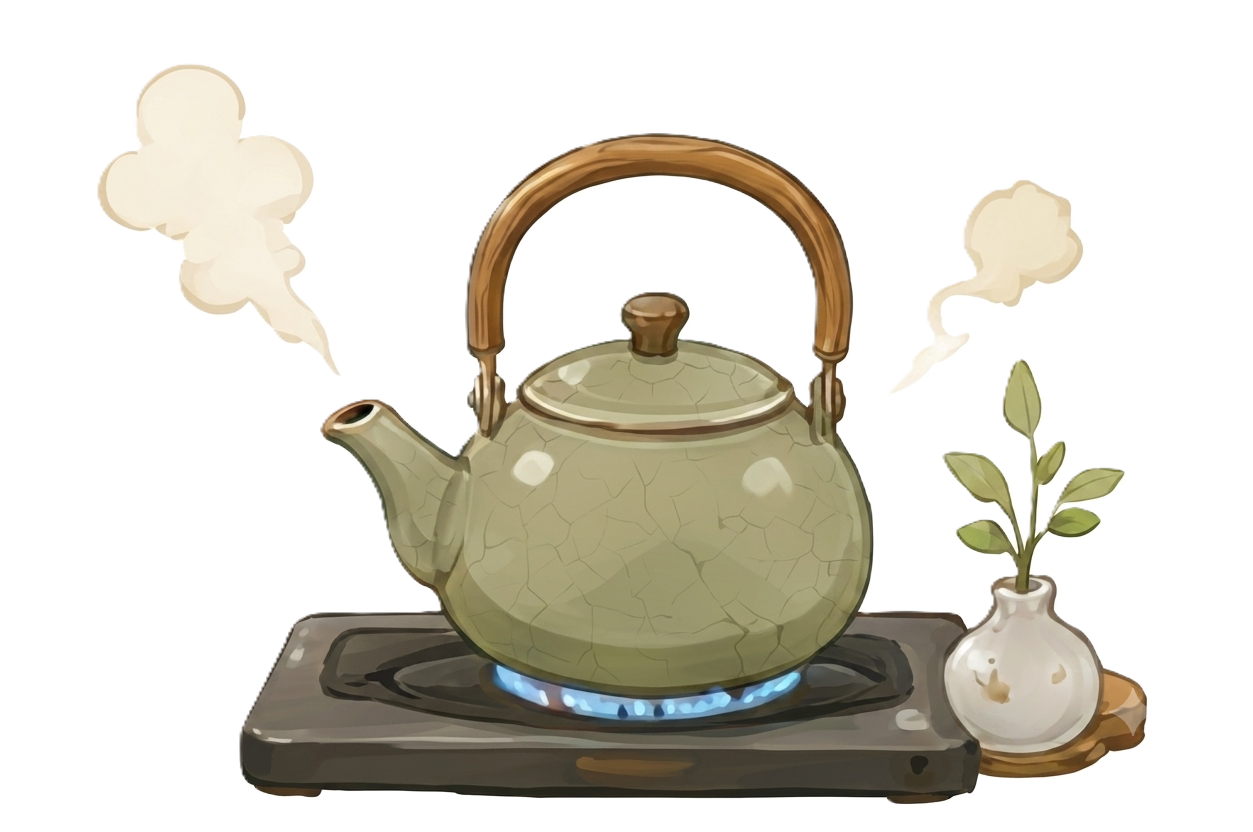
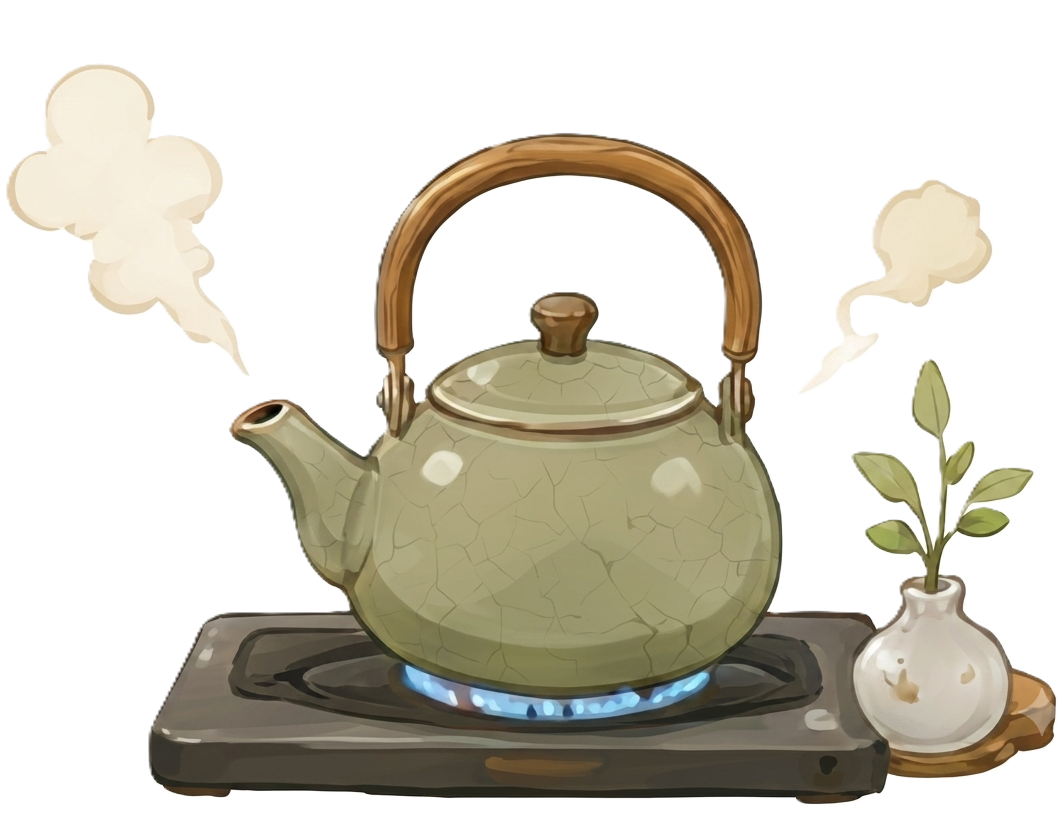
feat: 유튜브 영상 추가

diff --git a/src/pages/Guide/Teaguide.jsx b/src/pages/Guide/Teaguide.jsx
@@ -26,8 +26,6 @@ import {
   StepLabel,
   VideoSection,
   VideoWrapper,
-  PlayBtn,
-  VideoMeta,
   StepContent,
   StepBadge,
   StepTitle,
@@ -53,63 +51,90 @@ import gughwaImg from "../../assets/img/gughwa.png";
 import mogwaImg from "../../assets/img/mogwa.png";
 import plumImg from "../../assets/img/plum.png";
 
+const VIDEO_ID = "DlvkxN3olnk";
+
+// 영상을 직접 보고 각 단계 시작 시간(초)을 여기서 수정하세요
+// 단계별 시작 시간 (초)
+const STEP_TIMES = [0, 54, 89, 111, 159];
+
 const TEA_LIST = [
-  { id: "nokcha",  name: "녹차",   img: leavesImg  },
-  { id: "ginger",  name: "생강차", img: gingerImg  },
-  { id: "omija",   name: "오미자차", img: omijaImg  },
-  { id: "gughwa",  name: "국화차", img: gughwaImg  },
-  { id: "mogwa",   name: "모과차", img: mogwaImg   },
-  { id: "dechu",   name: "대추차", img: dechuImg   },
-  { id: "plum",    name: "매실차", img: plumImg    },
-  { id: "yuja",    name: "유자차", img: yujaImg    },
+  { id: "nokcha", name: "녹차", img: leavesImg, temp: "70°C ~ 80°C", time: "1분 ~ 1분 30초", tempNote: "한 김 식힌 물" },
+  { id: "ginger", name: "생강차", img: gingerImg, temp: "약불 달이기", time: "30분 ~ 1시간", tempNote: "약불에 푹 달여요" },
+  { id: "omija", name: "오미자차", img: omijaImg, temp: "찬물 냉침 ⚠️", time: "12시간 ~ 24시간", tempNote: "절대 뜨거운 물 금지!" },
+  { id: "gughwa", name: "국화차", img: gughwaImg, temp: "90°C ~ 100°C", time: "2분 ~ 3분", tempNote: "팔팔 끓는 물" },
+  { id: "mogwa", name: "모과차", img: mogwaImg, temp: "80°C ~ 90°C", time: "청을 물에 희석", tempNote: "정수기 온수 정도" },
+  { id: "dechu", name: "대추차", img: dechuImg, temp: "약불 달이기", time: "30분 ~ 1시간", tempNote: "약불에 푹 달여요" },
+  { id: "plum", name: "매실차", img: plumImg, temp: "80°C ~ 90°C", time: "청을 물에 희석", tempNote: "온차 또는 냉차로!" },
+  { id: "yuja", name: "유자차", img: yujaImg, temp: "80°C ~ 90°C", time: "청을 물에 희석", tempNote: "정수기 온수 정도" },
 ];
 
-const STEPS = [
-  {
-    num: 1, label: "물 끓이기", title: "물 끓이기",
-    desc: "깨끗한 물을 준비하여 70~80℃로 끓여주세요.",
-    tip: "너무 끓는 물(100℃)은 찻잎을 상하게 할 수 있어요!",
-    illustration: boilTea,
-    videoId: "Z_hbWiWE_tk", duration: "0:45",
-  },
-  {
-    num: 2, label: "다구 데우기", title: "다구 데우기",
-    desc: "찻주전자와 찻잔에 뜨거운 물을 부어 데워주세요. 이 과정으로 차의 온도를 유지할 수 있어요.",
-    tip: "다구를 데우면 차가 빨리 식지 않아요.",
-    illustration: boilTea,
-    videoId: "fxDz9QCNJp0", duration: "1:02",
-  },
-  {
-    num: 3, label: "차 우리기", title: "차 우리기",
-    desc: "찻주전자에 찻잎을 넣고 적당한 온도의 물을 부어 1~2분간 우려주세요.",
-    tip: "우리는 시간이 길어지면 쓴맛이 강해져요.",
-    illustration: boilTea,
-    videoId: "P3ZKWZ2SXJA", duration: "1:30",
-  },
-  {
-    num: 4, label: "따르기", title: "따르기",
-    desc: "우린 차를 여러 잔에 골고루 조금씩 번갈아 따라주세요. 차의 농도를 균일하게 맞추는 방법이에요.",
-    tip: "한 잔씩 가득 채우지 말고, 조금씩 돌아가며 따르세요.",
-    illustration: boilTea,
-    videoId: "B4iHxzxkODE", duration: "0:50",
-  },
-  {
-    num: 5, label: "음미하기", title: "음미하기",
-    desc: "두 손으로 찻잔을 감싸 쥐고, 향을 먼저 맡은 뒤 천천히 음미하세요.",
-    tip: "차를 마시기 전 먼저 향을 충분히 느껴보세요.",
-    illustration: boilTea,
-    videoId: "zEdofJsJpJg", duration: "1:10",
-  },
-];
+const TEA_STEPS = {
+  nokcha: [
+    { num: 1, label: "물 끓이기", title: "물 끓이기", desc: "물을 끓인 뒤 숙우(물식힘 사발)에 먼저 부어 70~80°C로 식혀주세요.", tip: "끓는 물(100°C)을 바로 쓰면 떫고 쓴맛이 나고 영양소가 파괴돼요!", illustration: boilTea, videoId: "Z_hbWiWE_tk", duration: "0:45" },
+    { num: 2, label: "다구 데우기", title: "다구 데우기", desc: "찻주전자와 찻잔에 뜨거운 물을 부어 데워주세요. 차 온도를 오래 유지할 수 있어요.", tip: "다구를 데우면 차가 빨리 식지 않아요.", illustration: boilTea, videoId: "fxDz9QCNJp0", duration: "1:02" },
+    { num: 3, label: "차 우리기", title: "차 우리기", desc: "다관에 찻잎을 넣고 70~80°C 물을 부어 1분~1분 30초간 우려주세요.", tip: "2~3번까지 재탕할 수 있어요. 두 번째 탕이 가장 맛있다는 말도 있어요!", illustration: boilTea, videoId: "P3ZKWZ2SXJA", duration: "1:30" },
+    { num: 4, label: "따르기", title: "따르기", desc: "우린 차를 여러 잔에 조금씩 번갈아 따라 농도를 균일하게 맞춰주세요.", tip: "한 잔씩 가득 채우지 말고, 조금씩 돌아가며 따르세요.", illustration: boilTea, videoId: "B4iHxzxkODE", duration: "0:50" },
+    { num: 5, label: "음미하기", title: "음미하기", desc: "두 손으로 찻잔을 감싸 쥐고, 향을 먼저 맡은 뒤 천천히 음미하세요.", tip: "차를 마시기 전 먼저 향을 충분히 느껴보세요.", illustration: boilTea, videoId: "zEdofJsJpJg", duration: "1:10" },
+  ],
+  gughwa: [
+    { num: 1, label: "물 끓이기", title: "물 끓이기", desc: "물을 90~100°C로 팔팔 끓여주세요. 국화차는 높은 온도에서 향이 제대로 우러납니다.", tip: "국화는 높은 온도에서 우려야 꽃이 활짝 피어나며 향이 진하게 퍼져요!", illustration: boilTea, videoId: "Z_hbWiWE_tk", duration: "0:45" },
+    { num: 2, label: "다구 데우기", title: "다구 데우기", desc: "투명한 유리 다관과 찻잔을 뜨거운 물로 데워주세요.", tip: "투명 유리 다관을 쓰면 꽃이 피어나는 시각적인 즐거움도 함께 느낄 수 있어요!", illustration: boilTea, videoId: "fxDz9QCNJp0", duration: "1:02" },
+    { num: 3, label: "차 우리기", title: "차 우리기", desc: "다관에 국화 꽃잎을 넣고 90~100°C 뜨거운 물을 부어 2~3분간 우려주세요.", tip: "꽃잎이 활짝 피어오르는 걸 보는 것도 다도의 즐거움이에요.", illustration: boilTea, videoId: "P3ZKWZ2SXJA", duration: "1:30" },
+    { num: 4, label: "따르기", title: "따르기", desc: "우린 국화차를 찻잔에 조심스럽게 따라주세요.", tip: "국화 꽃잎이 잔에 떠내려오지 않도록 천천히 따르세요.", illustration: boilTea, videoId: "B4iHxzxkODE", duration: "0:50" },
+    { num: 5, label: "음미하기", title: "음미하기", desc: "은은한 국화 향을 먼저 맡고, 부드럽고 달콤한 꽃 향의 차를 천천히 음미하세요.", tip: "국화차는 눈 피로 해소와 두통 완화에 좋아요.", illustration: boilTea, videoId: "zEdofJsJpJg", duration: "1:10" },
+  ],
+  yuja: [
+    { num: 1, label: "물 끓이기", title: "물 끓이기", desc: "물을 끓인 뒤 80~90°C로 살짝 식혀주세요. 너무 끓는 물은 유자의 비타민 풍미를 죽여요.", tip: "100°C 끓는 물을 바로 부으면 상큼한 유자 향이 날아가요!", illustration: boilTea, videoId: "Z_hbWiWE_tk", duration: "0:45" },
+    { num: 2, label: "잔 데우기", title: "잔 데우기", desc: "찻잔에 따뜻한 물을 부어 미리 데워두세요. 유자차를 오래 따뜻하게 즐길 수 있어요.", tip: "잔을 데우면 청이 잘 녹아요.", illustration: boilTea, videoId: "fxDz9QCNJp0", duration: "1:02" },
+    { num: 3, label: "청 넣기", title: "유자청 넣기", desc: "데운 찻잔의 물을 버리고, 유자청 1~2 큰술을 잔에 넣어주세요.", tip: "청의 양으로 단맛과 농도를 취향껏 조절하세요.", illustration: boilTea, videoId: "P3ZKWZ2SXJA", duration: "1:30" },
+    { num: 4, label: "물 붓기", title: "물 붓기", desc: "80~90°C로 식힌 물을 유자청 위에 천천히 부어주세요.", tip: "뜨거운 물을 천천히 부으면 청이 자연스럽게 녹아요.", illustration: boilTea, videoId: "B4iHxzxkODE", duration: "0:50" },
+    { num: 5, label: "음미하기", title: "음미하기", desc: "잘 저어 청을 녹인 뒤, 상큼한 유자 향과 달콤한 맛을 천천히 음미하세요.", tip: "유자차는 비타민 C가 풍부해 감기 예방에 좋아요.", illustration: boilTea, videoId: "zEdofJsJpJg", duration: "1:10" },
+  ],
+  plum: [
+    { num: 1, label: "방법 선택", title: "온차 or 냉차?", desc: "매실차는 따뜻하게도, 얼음 띄워 시원하게도 즐길 수 있어요. 소화 개선엔 냉차가 특히 좋아요!", tip: "🧊 냉차: 매실청 + 차가운 물 + 얼음으로 청량하게 즐겨보세요!", illustration: boilTea, videoId: "Z_hbWiWE_tk", duration: "0:45" },
+    { num: 2, label: "물 준비", title: "물 준비", desc: "온차: 물을 끓여 80~90°C로 식혀주세요. 냉차: 차가운 생수나 얼음물을 준비하세요.", tip: "온차에 100°C 끓는 물을 바로 쓰면 매실 특유의 상큼함이 줄어들어요.", illustration: boilTea, videoId: "fxDz9QCNJp0", duration: "1:02" },
+    { num: 3, label: "청 넣기", title: "매실청 넣기", desc: "잔에 매실청 1~2 큰술을 넣어주세요. 취향에 따라 양을 조절하세요.", tip: "신맛을 좋아하면 청을 조금 더, 달게 드시려면 꿀을 한 스푼 추가해보세요.", illustration: boilTea, videoId: "P3ZKWZ2SXJA", duration: "1:30" },
+    { num: 4, label: "물 붓기", title: "물 붓기", desc: "준비한 물(온수 또는 냉수)을 청 위에 천천히 부어주세요. 냉차는 얼음도 함께 넣어요.", tip: "얼음을 먼저 넣고 물을 부으면 더 시원하게 즐길 수 있어요.", illustration: boilTea, videoId: "B4iHxzxkODE", duration: "0:50" },
+    { num: 5, label: "음미하기", title: "음미하기", desc: "잘 저어 청을 녹인 뒤, 새콤달콤한 매실의 맛을 천천히 음미하세요.", tip: "매실차는 소화 촉진, 피로 해소, 해독 작용에 효과적이에요.", illustration: boilTea, videoId: "zEdofJsJpJg", duration: "1:10" },
+  ],
+  mogwa: [
+    { num: 1, label: "물 끓이기", title: "물 끓이기", desc: "물을 끓인 뒤 80~90°C로 살짝 식혀주세요.", tip: "너무 끓는 물은 모과 특유의 향긋한 풍미를 약하게 만들어요.", illustration: boilTea, videoId: "Z_hbWiWE_tk", duration: "0:45" },
+    { num: 2, label: "잔 데우기", title: "잔 데우기", desc: "찻잔에 따뜻한 물을 부어 미리 데워두세요.", tip: "잔을 데우면 모과청이 잘 녹고 차가 오래 따뜻하게 유지돼요.", illustration: boilTea, videoId: "fxDz9QCNJp0", duration: "1:02" },
+    { num: 3, label: "청 넣기", title: "모과청 넣기", desc: "데운 잔의 물을 버리고, 모과청 1~2 큰술을 넣어주세요.", tip: "모과청에는 과육이 들어 있어 씹는 재미가 있어요.", illustration: boilTea, videoId: "P3ZKWZ2SXJA", duration: "1:30" },
+    { num: 4, label: "물 붓기", title: "물 붓기", desc: "80~90°C로 식힌 물을 청 위에 천천히 부어주세요.", tip: "물을 부은 뒤 잘 저어 청이 고루 녹도록 해주세요.", illustration: boilTea, videoId: "B4iHxzxkODE", duration: "0:50" },
+    { num: 5, label: "음미하기", title: "음미하기", desc: "은은한 모과 향과 달콤하면서도 약간 쌉쌀한 맛을 천천히 음미하세요.", tip: "모과차는 기침, 가래에 효과적이고 목에 좋아요.", illustration: boilTea, videoId: "zEdofJsJpJg", duration: "1:10" },
+  ],
+  ginger: [
+    { num: 1, label: "재료 준비", title: "재료 준비", desc: "생강을 깨끗이 씻어 얇게 편 썰어 준비하세요. 말린 생강을 쓰면 더 편리해요.", tip: "생강은 껍질째 쓰면 향이 더 진해요.", illustration: boilTea, videoId: "Z_hbWiWE_tk", duration: "0:45" },
+    { num: 2, label: "물 올리기", title: "주전자에 물 올리기", desc: "주전자에 물과 생강 편을 넣고 센 불로 끓이기 시작하세요.", tip: "물 1L 기준 생강 50g 정도가 적당해요.", illustration: boilTea, videoId: "fxDz9QCNJp0", duration: "1:02" },
+    { num: 3, label: "약불 달이기", title: "약불에 달이기", desc: "물이 끓기 시작하면 약불로 줄여 30분~1시간 이상 은근하게 달여주세요.", tip: "오래 달일수록 생강의 깊은 매운맛과 단맛이 더 진하게 우러나요.", illustration: boilTea, videoId: "P3ZKWZ2SXJA", duration: "1:30" },
+    { num: 4, label: "거르기", title: "건더기 거르기", desc: "생강 건더기를 체로 걸러내고 맑은 생강 달인 물만 찻잔에 따라주세요.", tip: "다도 잔에 낼 때 잣을 고명으로 띄우면 멋스러워요.", illustration: boilTea, videoId: "B4iHxzxkODE", duration: "0:50" },
+    { num: 5, label: "음미하기", title: "음미하기", desc: "따뜻한 생강차의 알싸한 향을 먼저 맡고, 꿀을 조금 넣어 달콤하게 음미하세요.", tip: "생강차는 몸을 따뜻하게 해주고 소화 촉진, 감기 예방에 좋아요.", illustration: boilTea, videoId: "zEdofJsJpJg", duration: "1:10" },
+  ],
+  dechu: [
+    { num: 1, label: "재료 준비", title: "재료 준비", desc: "말린 대추를 깨끗이 씻어 준비하세요. 씨를 빼고 슬라이스하면 더 빨리 우러나요.", tip: "슬라이스하면 단맛이 더 잘 우러나요.", illustration: boilTea, videoId: "Z_hbWiWE_tk", duration: "0:45" },
+    { num: 2, label: "물 올리기", title: "주전자에 물 올리기", desc: "주전자에 물과 대추를 넣고 센 불로 끓이기 시작하세요.", tip: "물 1L 기준 대추 10~15개 정도가 적당해요.", illustration: boilTea, videoId: "fxDz9QCNJp0", duration: "1:02" },
+    { num: 3, label: "약불 달이기", title: "약불에 달이기", desc: "물이 끓기 시작하면 약불로 줄여 30분~1시간 이상 은근하게 달여주세요.", tip: "오래 달일수록 대추의 깊은 단맛이 진하게 우러나요.", illustration: boilTea, videoId: "P3ZKWZ2SXJA", duration: "1:30" },
+    { num: 4, label: "거르기", title: "건더기 거르기", desc: "대추 건더기를 체로 걸러내고 찻잔에 따라주세요.", tip: "대추 슬라이스나 잣을 고명으로 띄우면 멋스러워요.", illustration: boilTea, videoId: "B4iHxzxkODE", duration: "0:50" },
+    { num: 5, label: "음미하기", title: "음미하기", desc: "은은한 대추 향과 자연스러운 단맛을 천천히 음미하세요.", tip: "대추차는 불면증 완화, 스트레스 해소, 면역력 강화에 좋아요.", illustration: boilTea, videoId: "zEdofJsJpJg", duration: "1:10" },
+  ],
+  omija: [
+    { num: 1, label: "재료 준비", title: "재료 준비", desc: "말린 오미자를 깨끗이 씻어 준비하세요. 뜨거운 물에 끓이면 절대 안 돼요!", tip: "⚠️ 오미자를 뜨거운 물에 끓이면 쓴맛과 신맛이 너무 강해져요!", illustration: boilTea, videoId: "Z_hbWiWE_tk", duration: "0:45" },
+    { num: 2, label: "냉침 준비", title: "찬물에 냉침 시작", desc: "깨끗한 유리 용기에 오미자와 찬물(또는 미지근한 물)을 넣어주세요.", tip: "물 1L 기준 오미자 50g 정도가 적당해요.", illustration: boilTea, videoId: "fxDz9QCNJp0", duration: "1:02" },
+    { num: 3, label: "냉침 숙성", title: "12~24시간 냉침", desc: "냉장고에 넣고 12시간~하루 동안 천천히 냉침(우려내기)해주세요.", tip: "오래 냉침할수록 오미자의 5가지 맛이 균형 있게 우러나요.", illustration: boilTea, videoId: "P3ZKWZ2SXJA", duration: "1:30" },
+    { num: 4, label: "거르기", title: "건더기 거르기", desc: "냉침한 오미자 원액을 체로 걸러 맑은 원액만 남겨주세요.", tip: "원액을 그대로 마시면 너무 강하니 물이나 꿀로 취향껏 희석하세요.", illustration: boilTea, videoId: "B4iHxzxkODE", duration: "0:50" },
+    { num: 5, label: "음미하기", title: "음미하기", desc: "희석한 오미자차를 따뜻하게 데우거나 그대로 시원하게 음미하세요.", tip: "오미자차는 피로 회복, 간 보호, 면역력 향상에 효과가 있어요.", illustration: boilTea, videoId: "zEdofJsJpJg", duration: "1:10" },
+  ],
+};
 
 export default function TeaGuide() {
   const [selectedTea, setSelectedTea] = useState(TEA_LIST[0]);
+  const steps = TEA_STEPS[selectedTea.id];
   const [dropdownOpen, setDropdownOpen] = useState(false);
   const [currentStep, setCurrentStep] = useState(0);
-  const [playing, setPlaying] = useState(false);
   const dropdownRef = useRef(null);
 
-  const step = STEPS[currentStep];
+  const step = steps[currentStep];
 
   useEffect(() => {
     const handleClick = (e) => {
@@ -123,20 +148,17 @@ export default function TeaGuide() {
 
   const handleGoToStep = (i) => {
     setCurrentStep(i);
-    setPlaying(false);
   };
 
   const handlePrev = () => {
     if (currentStep > 0) {
       setCurrentStep((s) => s - 1);
-      setPlaying(false);
     }
   };
 
   const handleNext = () => {
-    if (currentStep < STEPS.length - 1) {
+    if (currentStep < steps.length - 1) {
       setCurrentStep((s) => s + 1);
-      setPlaying(false);
     }
   };
 
@@ -170,6 +192,7 @@ export default function TeaGuide() {
                   $active={tea.id === selectedTea.id}
                   onClick={() => {
                     setSelectedTea(tea);
+                    setCurrentStep(0);
                     setDropdownOpen(false);
                   }}
                 >
@@ -183,27 +206,27 @@ export default function TeaGuide() {
       </Header>
 
       {/* ── Step Nav ── */}
-        <StepNav>
-          <StepList>
-            {STEPS.map((s, i) => (
-              <div key={s.num} style={{ display: "flex", alignItems: "flex-start" }}>
-                <StepItem onClick={() => handleGoToStep(i)}>
-                  <StepDot $active={i === currentStep} $done={i < currentStep}>
-                    <StepDotInner $active={i === currentStep} $done={i < currentStep}>
-                      {i < currentStep ? "✓" : s.num}
-                    </StepDotInner>
-                  </StepDot>
-                  <StepLabel $active={i === currentStep} $done={i < currentStep}>
-                    {s.label}
-                  </StepLabel>
-                </StepItem>
-                {i < STEPS.length - 1 && (
-                  <StepConnector $done={i < currentStep} />
-                )}
-              </div>
-            ))}
-          </StepList>
-        </StepNav>
+      <StepNav>
+        <StepList>
+          {steps.map((s, i) => (
+            <div key={s.num} style={{ display: "flex", alignItems: "flex-start" }}>
+              <StepItem onClick={() => handleGoToStep(i)}>
+                <StepDot $active={i === currentStep} $done={i < currentStep}>
+                  <StepDotInner $active={i === currentStep} $done={i < currentStep}>
+                    {i < currentStep ? "✓" : s.num}
+                  </StepDotInner>
+                </StepDot>
+                <StepLabel $active={i === currentStep} $done={i < currentStep}>
+                  {s.label}
+                </StepLabel>
+              </StepItem>
+              {i < steps.length - 1 && (
+                <StepConnector $done={i < currentStep} />
+              )}
+            </div>
+          ))}
+        </StepList>
+      </StepNav>
 
       {/* ── 2-column grid ── */}
       <ContentGrid>
@@ -211,27 +234,15 @@ export default function TeaGuide() {
         <LeftCol>
           <VideoSection>
             <VideoWrapper>
-              {playing ? (
-                <iframe
-                  width="100%"
-                  height="100%"
-                  src={`https://www.youtube.com/embed/${step.videoId}?autoplay=1&rel=0`}
-                  title={step.title}
-                  frameBorder="0"
-                  allow="accelerometer; autoplay; clipboard-write; encrypted-media; gyroscope; picture-in-picture"
-                  allowFullScreen
-                  style={{ position: "absolute", top: 0, left: 0, width: "100%", height: "100%", border: "none" }}
-                />
-              ) : (
-                <>
-                  <img
-                    src={`https://img.youtube.com/vi/${step.videoId}/hqdefault.jpg`}
-                    alt={step.title}
-                  />
-                  <PlayBtn onClick={() => setPlaying(true)}>▶</PlayBtn>
-                  <VideoMeta>{`0:00 / ${step.duration}`}</VideoMeta>
-                </>
-              )}
+              <iframe
+                key={`${selectedTea.id}-${currentStep}`}
+                src={`https://www.youtube.com/embed/${VIDEO_ID}?start=${STEP_TIMES[currentStep] ?? 0}&rel=0&modestbranding=1`}
+                title={step.title}
+                frameBorder="0"
+                allow="accelerometer; autoplay; clipboard-write; encrypted-media; gyroscope; picture-in-picture"
+                allowFullScreen
+                style={{ position: "absolute", top: 0, left: 0, width: "100%", height: "100%", border: "none" }}
+              />
             </VideoWrapper>
           </VideoSection>
         </LeftCol>
@@ -241,11 +252,23 @@ export default function TeaGuide() {
           <StepContent>
             <div style={{ display: "flex", justifyContent: "space-between", alignItems: "flex-start" }}>
               <div style={{ flex: 1 }}>
+                <div style={{ display: "flex", gap: "16px", marginBottom: "14px" }}>
+                  <div style={{ display: "flex", flexDirection: "column", gap: "2px" }}>
+                    <span style={{ fontSize: "11px", color: "#aaa", fontWeight: 600 }}>🌡️ 물 온도</span>
+                    <span style={{ fontSize: "14px", fontWeight: 700, color: "#6A793F" }}>{selectedTea.temp}</span>
+                    <span style={{ fontSize: "11px", color: "#bbb" }}>{selectedTea.tempNote}</span>
+                  </div>
+                  <div style={{ width: "1px", background: "#ede8de", margin: "0 4px" }} />
+                  <div style={{ display: "flex", flexDirection: "column", gap: "2px" }}>
+                    <span style={{ fontSize: "11px", color: "#aaa", fontWeight: 600 }}>⏱️ 우리는 시간</span>
+                    <span style={{ fontSize: "14px", fontWeight: 700, color: "#6A793F" }}>{selectedTea.time}</span>
+                  </div>
+                </div>
                 <StepBadge>{step.num}단계</StepBadge>
                 <StepTitle>{step.title}</StepTitle>
                 <StepDesc>{step.desc}</StepDesc>
               </div>
-              <StepIllustration src={step.illustration} alt={step.title} />
+              <StepIllustration src={step.illustration} alt={step.title} style={{ width: '300px' }} />
             </div>
 
             <TipBox>
@@ -255,9 +278,7 @@ export default function TeaGuide() {
                 <TipText>{step.tip}</TipText>
               </div>
               <img
-                src={beanChar}
-                alt="mascot"
-                style={{ width: "70px", height: "70px", objectFit: "contain", marginLeft: "auto", flexShrink: 0 }}
+                src={beanChar} alt="mascot" style={{ width: "70px", height: "70px", objectFit: "contain" }}
               />
             </TipBox>
           </StepContent>
@@ -266,7 +287,7 @@ export default function TeaGuide() {
             <PrevBtn onClick={handlePrev} disabled={currentStep === 0}>
               ‹ 이전 단계
             </PrevBtn>
-            <NextBtn onClick={handleNext} disabled={currentStep === STEPS.length - 1}>
+            <NextBtn onClick={handleNext} disabled={currentStep === steps.length - 1}>
               다음 단계 ›
             </NextBtn>
           </NavRow>

diff --git a/src/pages/Guide/Teaguide.styles.js b/src/pages/Guide/Teaguide.styles.js
@@ -270,7 +270,7 @@ export const VideoMeta = styled.div`
 
 /* ── Step Content ── */
 export const StepContent = styled.div`
-  background: #fff;
+  background: #FCFAF4;
   border-radius: 20px;
   padding: 28px 28px 24px;
   box-shadow: 0 2px 12px rgba(0,0,0,0.05);
@@ -304,10 +304,9 @@ export const StepDesc = styled.p`
 `;
 
 export const StepIllustration = styled.img`
-  width: 110px;
-  height: 110px;
+  width: 130px;
+  height: 130px;
   object-fit: contain;
-  margin-left: 16px;
   flex-shrink: 0;
 `;
 
@@ -316,11 +315,10 @@ export const TipBox = styled.div`
   display: flex;
   align-items: center;
   gap: 12px;
-  background: #f5f9f6;
+  background: #FBF7ED;
   border-radius: 14px;
   padding: 16px 18px;
   margin-top: 20px;
-  border: 1px solid #dff0e6;
 `;
 
 export const TipLeaf = styled.img`

diff --git a/src/pages/Intro/TeaCeremonyIntro.styles.js b/src/pages/Intro/TeaCeremonyIntro.styles.js
@@ -1,4 +1,4 @@
-import styled, { keyframes } from 'styled-components';
+import styled, { keyframes } from "styled-components";
 
 
 const fadeUp = keyframes`